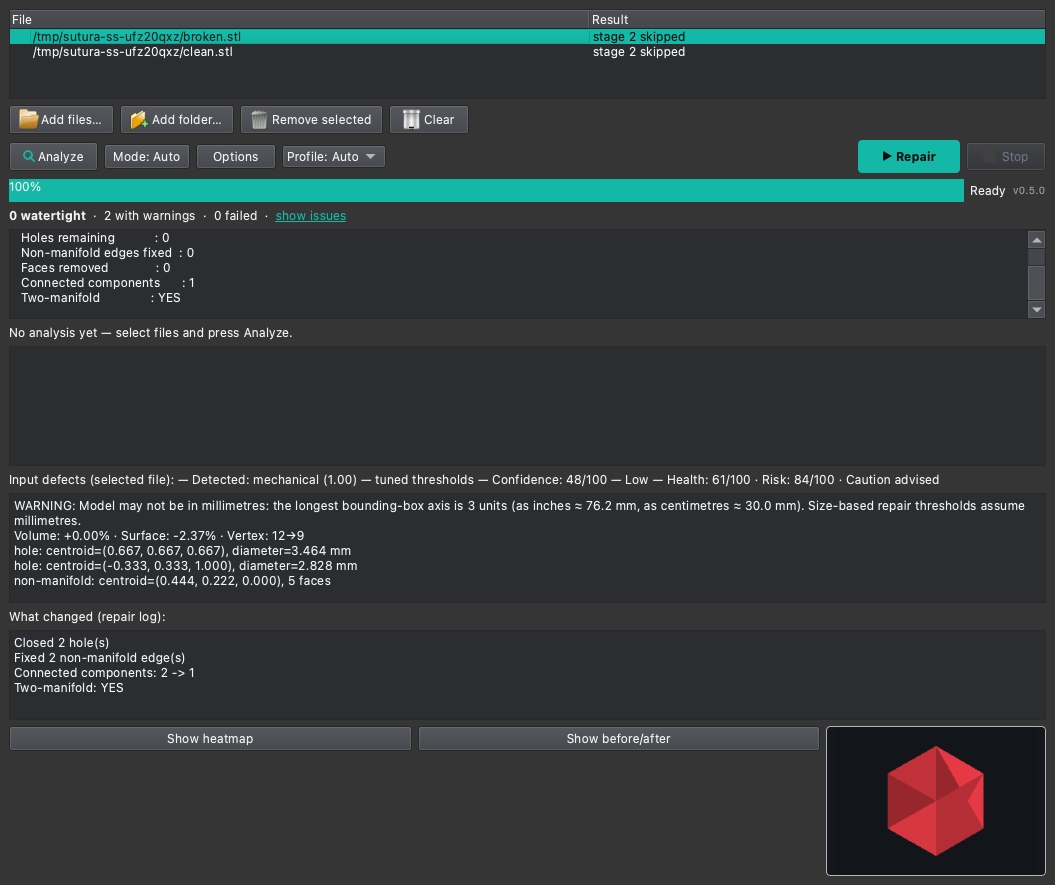
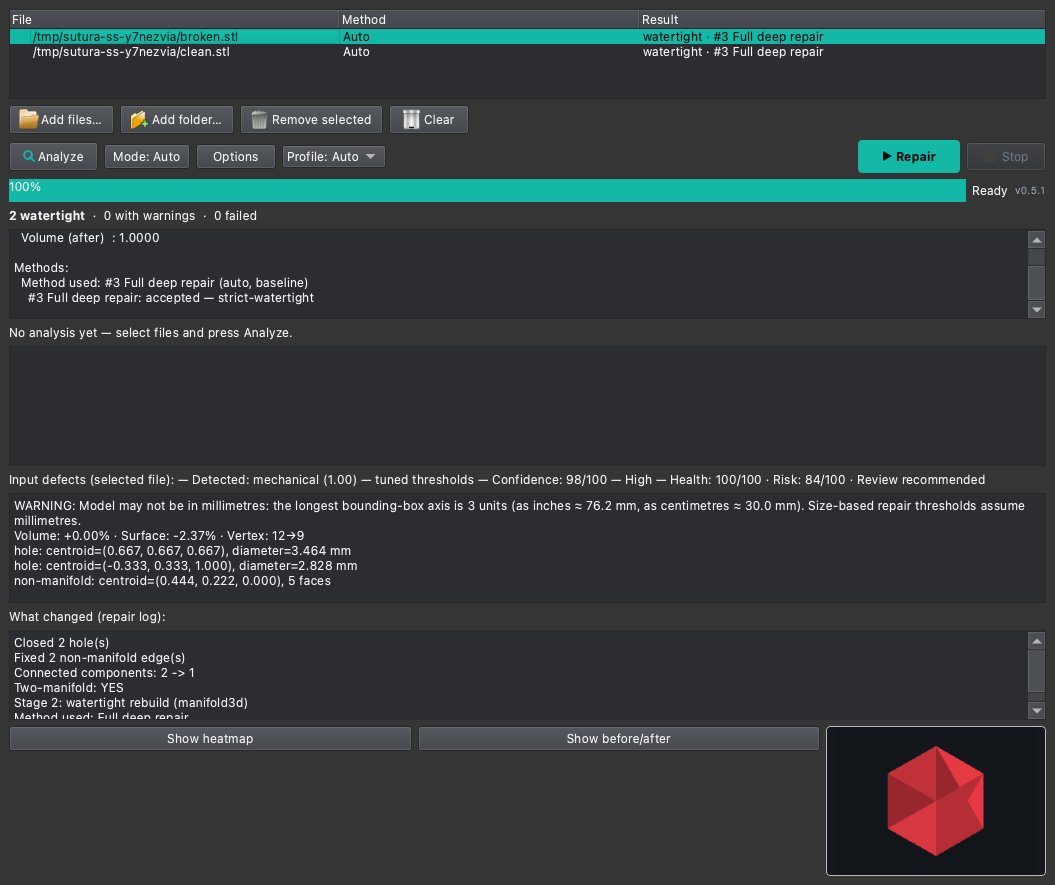
chore(release): regenerate screenshots and bump to 0.6.0
Regenerate assets/*.png with a temp HOME and the offscreen platform and
add assets/method-menu.png (the file-list right-click method menu after a
per-file analysis); reference it from both READMEs. Bump repair.VERSION to
0.6.0 (the release workflow takes the OrcaCloud plugin version from the
tag, so no plugin code change).

diff --git a/scripts/generate_screenshots.py b/scripts/generate_screenshots.py
@@ -26,6 +26,9 @@ Outputs (overwrites in assets/):
                        Static/Interactive mode switch, the main
                        original/repaired image, the worst-defect detail
                        close-up and the toggle button
+  method-menu.png    - the file-list right-click menu (Analyze, Recommended
+                       methods, Use method, External engines, Clear tags)
+                       after a per-file method analysis
 
 The meshes used are generated into a temp dir and removed afterwards.
 """
@@ -34,7 +37,7 @@ import subprocess
 import sys
 import tempfile
 
-from PySide6.QtCore import QTimer
+from PySide6.QtCore import QPoint, QTimer
 from PySide6.QtWidgets import QApplication
 
 # The README screenshots are always the English UI, whatever the system
@@ -218,6 +221,50 @@ def run_before_after(m, files, size, out_path):
     print('wrote', out_path)
 
 
+def run_context_menu(m, files, out_path):
+    """Grab the file-list right-click menu with the ranked recommendations.
+
+    Runs the per-file method analysis first (so *Recommended methods* is
+    populated), builds the menu without showing it interactively, pops it up
+    and grabs the QMenu popup itself (a popup is not part of ``win.grab()``)."""
+    app = QApplication.instance() or QApplication([])
+    m.apply_dark_theme(app)
+    win = m.MainWindow()
+    win.resize(*MAIN_SIZE)
+    win.show()
+    for f in files:
+        win._add_path(f)
+    paths = [files[0]]
+    state = {'menu': None}
+    done = {}
+
+    def poll():
+        if win._method_worker is None and win.worker is None:
+            app.processEvents()
+            state['menu'] = win._build_context_menu(paths)
+            if state['menu'] is None:
+                raise RuntimeError('no context menu built')
+            state['menu'].popup(QPoint(20, 20))
+            app.processEvents()
+            QTimer.singleShot(200, do_grab)
+        else:
+            QTimer.singleShot(200, poll)
+
+    def do_grab():
+        menu = state['menu']
+        menu.grab().save(out_path)
+        done['ok'] = True
+        menu.close()
+        app.quit()
+
+    win._analyze_methods(paths)
+    QTimer.singleShot(200, poll)
+    app.exec()
+    if not done.get('ok'):
+        raise RuntimeError('context-menu screenshot render did not finish')
+    print('wrote', out_path)
+
+
 def main():
     os.environ['SUTURA'] = _repo_cli_wrapper()
     m = load_gui()
@@ -232,6 +279,8 @@ def main():
                     out_path=os.path.join(ASSETS, 'analyze-panel.png'))
         run_before_after(m, files, MAIN_SIZE,
                          out_path=os.path.join(ASSETS, 'before-after-panel.png'))
+        run_context_menu(m, files,
+                         out_path=os.path.join(ASSETS, 'method-menu.png'))
     print('done')
 
 

diff --git a/sutura/repair.py b/sutura/repair.py
@@ -149,7 +149,7 @@ BRIDGE = _resolve_bridge()
 FTETWILD_BRIDGE = _resolve_ftetwild_bridge()
 INDIRECT_BRIDGE = _resolve_indirect_bridge()
 
-VERSION = "0.5.1"
+VERSION = "0.6.0"
 
 
 class ExtremeRemovedAllError(ValueError):

diff --git a/README.md b/README.md
@@ -308,6 +308,8 @@ file to Auto. Tagged files run exactly their methods, in order; untagged files
 keep the auto behaviour. Engines tagged per file are selected with the CLI
 `--engines NAME[,NAME]` (`None` runs every enabled engine as configured).
 
+![File-list right-click method menu](assets/method-menu.png)
+
 #### Repeated-element repair (auto/manual picker)
 
 `--methods 11` (auto) and `--methods 12` (manual) target models that repeat a

diff --git a/README.tr.md b/README.tr.md
@@ -316,6 +316,8 @@ otomatik davranışı korur. Dosya başına etiketlenen motorlar CLI'de
 `--engines AD[,AD]` ile seçilir (`None` yapılandırılmış tüm etkin motorları
 çalıştırır).
 
+![Dosya listesi sağ tık yöntem menüsü](assets/method-menu.png)
+
 #### Yinelenen öge onarımı (otomatik/elle seçici)
 
 `--methods 11` (otomatik) ve `--methods 12` (elle), bir eşleşik özelliği
